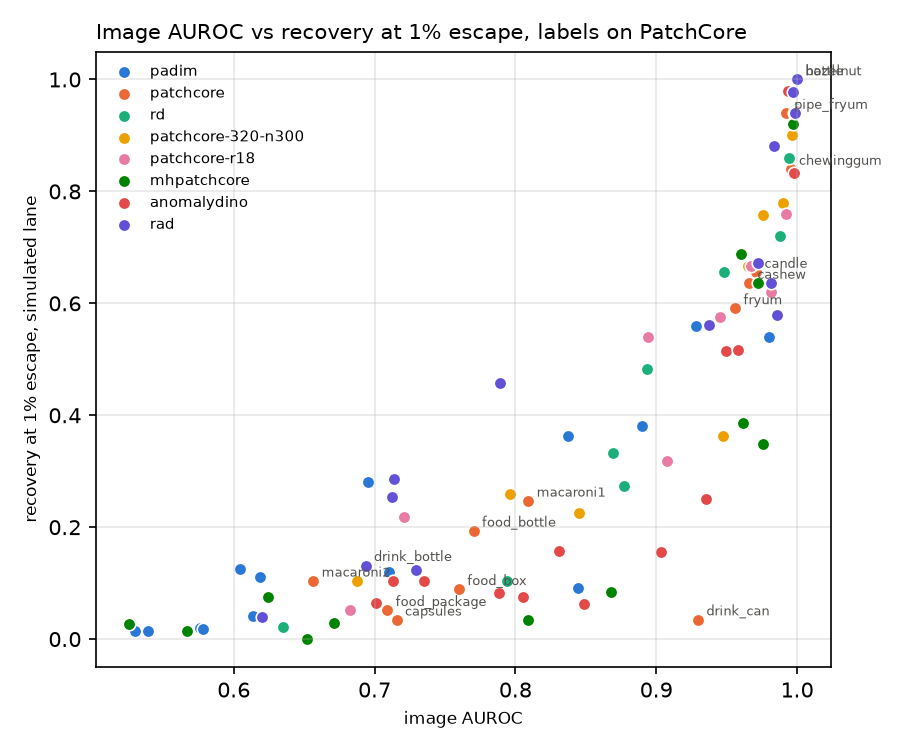
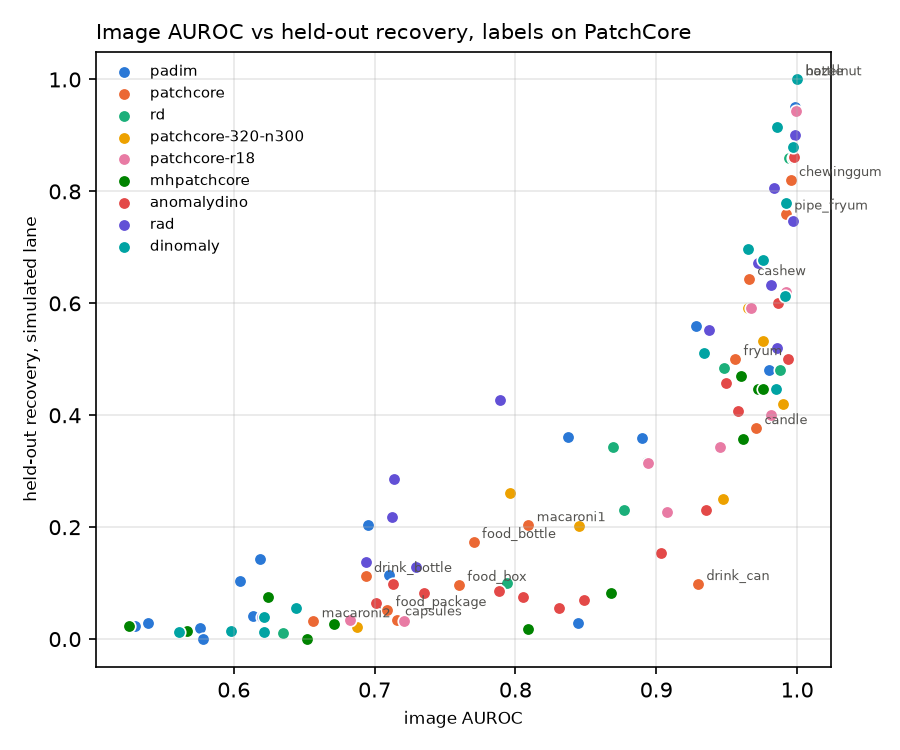
docs: regenerate results and figures

diff --git a/docs/results.md b/docs/results.md
@@ -2,21 +2,28 @@
 
 Generated by `scripts/lane.py` from the per-image scores in `results/`.
 
-recovery@e: share of good items passed when the threshold lets through a fraction e of defects.
+recovery@e: share of good items passed when the threshold lets through a fraction e of defects. In the
+quick-numbers table that threshold is set on the same test defects, so use it to compare models only.
 `all`: every test good. `aligned` / `pca` / `tinypadim`: only the goods that stand-in camera
 rejected (the simulated reject lane). FRR: share of goods the stand-in rejected at its zero-miss cutoff.
 
-Band: two thresholds set on 4 of 5 folds, measured on the 5th, escape target 1%.
+Band: two thresholds set on 4 of 5 folds, measured on the 5th. The lower line lets through at most
+1% of the calibration defects. Under 100 calibration defects that is the weakest one, so a new defect
+slips under it about 1/(n+1) of the time: 1.2% on VisA (80 defects), 2% on bottle (50). GoodsAD has enough
+defects for a real 1%. The rule and its check are in evaluation/.
+Trained models (dinomaly, foundad, cflow, cfa, fre, fastflow, stfpm) ran with a 6-minute training cap.
+UniNet and SuperSimpleNet are left out: their image scores had not converged in that time.
 recovery = auto-passed goods, escape = auto-passed defects, review = sent to a human.
 
 ## Models at a glance
 
 Means over categories, aligned lane. Candidate subset runs (-n300, -n400, -n450) count as their model.
-Only models that ran on every category of the group. Held-out = the calibrated band, threshold from 4 folds.
+Only models that ran on every category of the group. In-sample: threshold on the test defects, compare only.
+Held-out: the calibrated band below, about 1.2% expected escape on VisA, 2% on bottle. The number to quote.
 
 **VisA and MVTec AD, 10 categories**
 
-| model | AUROC | lane@1% | held-out recovery | held-out escape | ms/img |
+| model | AUROC | in-sample lane@1% | held-out recovery | held-out escape | ms/img |
 |---|---|---|---|---|---|
 | dinomaly | 0.98 | 0.84 | 0.75 | 0.01 | 48.67 |
 | rad | 0.96 | 0.77 | 0.73 | 0.01 | 61.88 |
@@ -40,7 +47,7 @@ Only models that ran on every category of the group. Held-out = the calibrated b
 
 **GoodsAD, 5 categories**
 
-| model | AUROC | lane@1% | held-out recovery | held-out escape | ms/img |
+| model | AUROC | in-sample lane@1% | held-out recovery | held-out escape | ms/img |
 |---|---|---|---|---|---|
 | rad | 0.69 | 0.17 | 0.16 | 0.01 | 49.66 |
 | superadd-vitb-n100 | 0.68 | 0.11 | 0.13 | 0.01 | 76.80 |
@@ -60,7 +67,7 @@ Only models that ran on every category of the group. Held-out = the calibrated b
 | cflow | 0.50 | 0.01 | 0.01 | 0.01 | 61.02 |
 
 
-## Recovery at fixed escape, all goods vs simulated lane (zero-miss cutoff)
+## Quick numbers: threshold set on the test defects themselves (compare models only)
 
 | dataset | category | model | good/defect | AUROC | all@0 | all@1% | all@5% | aligned FRR | aligned lane@1% | pca FRR | pca lane@1% | tinypadim FRR | tinypadim lane@1% | ms/img |
 |---|---|---|---|---|---|---|---|---|---|---|---|---|---|---|
@@ -356,7 +363,7 @@ Only models that ran on every category of the group. Held-out = the calibrated b
 | visa | pipe_fryum | superadd-vitb-n100 | 50/100 | 0.99 | 0.84 | 0.86 | 0.94 | 1.00 | 0.86 | 1.00 | 0.86 | 0.74 | 0.81 | 78.70 |
 | visa | pipe_fryum | winclip | 50/100 | 0.68 | 0.02 | 0.04 | 0.14 | 1.00 | 0.04 | 1.00 | 0.04 | 0.74 | 0.05 | 336.70 |
 
-## Calibrated band on the lane (held-out folds, escape target 1%)
+## Calibrated band on the lane (held-out folds, line at the weakest calibration defect)
 
 | dataset | category | model | lane | lane goods | recovery | escape | review | confirm precision | 95% escape bound |
 |---|---|---|---|---|---|---|---|---|---|
